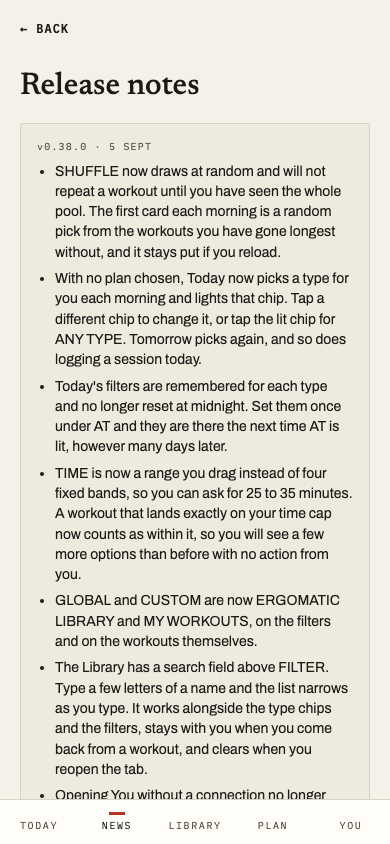
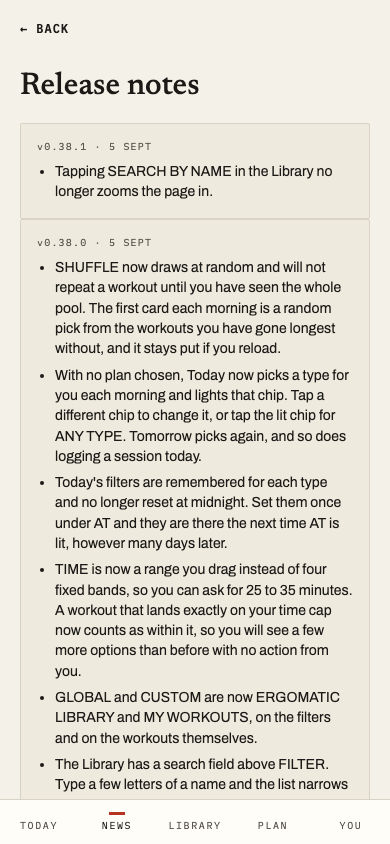
v0.38.1 notes: the Library search field no longer zooms the page; releasePin + list pin bumped, releases capture refreshed (#306)
Claude-Session: https://claude.ai/code/session_013Zebvh9Rq7cXCKg9k1TN2b

Changed region(s): [[0.0923, 0.1848, 0.8923, 0.955]]

diff --git a/app/e2e/news.spec.ts b/app/e2e/news.spec.ts
@@ -184,45 +184,46 @@ test("/news/releases lists every version, newest first", async ({ page }) => {
   // deliberately fails here — that is this pin's job, and it is why the
   // title no longer names a number that goes stale every tag.
   const versions = page.locator(".news-release-version");
-  await expect(versions).toHaveCount(38);
+  await expect(versions).toHaveCount(39);
   await expect(versions.nth(0)).toContainText(NEWEST_RELEASE_VERSION);
-  await expect(versions.nth(1)).toContainText("v0.37.0");
-  await expect(versions.nth(2)).toContainText("v0.36.1");
-  await expect(versions.nth(3)).toContainText("v0.36.0");
-  await expect(versions.nth(4)).toContainText("v0.35.0");
-  await expect(versions.nth(5)).toContainText("v0.34.0");
-  await expect(versions.nth(6)).toContainText("v0.33.0");
-  await expect(versions.nth(7)).toContainText("v0.32.0");
-  await expect(versions.nth(8)).toContainText("v0.31.0");
-  await expect(versions.nth(9)).toContainText("v0.30.0");
-  await expect(versions.nth(10)).toContainText("v0.29.0");
-  await expect(versions.nth(11)).toContainText("v0.28.0");
-  await expect(versions.nth(12)).toContainText("v0.27.0");
-  await expect(versions.nth(13)).toContainText("v0.26.0");
-  await expect(versions.nth(14)).toContainText("v0.25.0");
-  await expect(versions.nth(15)).toContainText("v0.24.0");
-  await expect(versions.nth(16)).toContainText("v0.23.0");
-  await expect(versions.nth(17)).toContainText("v0.22.0");
-  await expect(versions.nth(18)).toContainText("v0.21.0");
-  await expect(versions.nth(19)).toContainText("v0.20.0");
-  await expect(versions.nth(20)).toContainText("v0.19.1");
-  await expect(versions.nth(21)).toContainText("v0.19.0");
-  await expect(versions.nth(22)).toContainText("v0.18.1");
-  await expect(versions.nth(23)).toContainText("v0.18.0");
-  await expect(versions.nth(24)).toContainText("v0.17.0");
-  await expect(versions.nth(25)).toContainText("v0.16.0");
-  await expect(versions.nth(26)).toContainText("v0.15.0");
-  await expect(versions.nth(27)).toContainText("v0.14.0");
-  await expect(versions.nth(28)).toContainText("v0.13.0");
-  await expect(versions.nth(29)).toContainText("v0.12.0");
-  await expect(versions.nth(30)).toContainText("v0.11.0");
-  await expect(versions.nth(31)).toContainText("v0.10.0");
-  await expect(versions.nth(32)).toContainText("v0.9.0");
-  await expect(versions.nth(33)).toContainText("v0.8.0");
-  await expect(versions.nth(34)).toContainText("v0.7.0");
-  await expect(versions.nth(35)).toContainText("v0.5.1");
-  await expect(versions.nth(36)).toContainText("v0.5.0");
-  await expect(versions.nth(37)).toContainText("v0.4.0");
+  await expect(versions.nth(1)).toContainText("v0.38.0");
+  await expect(versions.nth(2)).toContainText("v0.37.0");
+  await expect(versions.nth(3)).toContainText("v0.36.1");
+  await expect(versions.nth(4)).toContainText("v0.36.0");
+  await expect(versions.nth(5)).toContainText("v0.35.0");
+  await expect(versions.nth(6)).toContainText("v0.34.0");
+  await expect(versions.nth(7)).toContainText("v0.33.0");
+  await expect(versions.nth(8)).toContainText("v0.32.0");
+  await expect(versions.nth(9)).toContainText("v0.31.0");
+  await expect(versions.nth(10)).toContainText("v0.30.0");
+  await expect(versions.nth(11)).toContainText("v0.29.0");
+  await expect(versions.nth(12)).toContainText("v0.28.0");
+  await expect(versions.nth(13)).toContainText("v0.27.0");
+  await expect(versions.nth(14)).toContainText("v0.26.0");
+  await expect(versions.nth(15)).toContainText("v0.25.0");
+  await expect(versions.nth(16)).toContainText("v0.24.0");
+  await expect(versions.nth(17)).toContainText("v0.23.0");
+  await expect(versions.nth(18)).toContainText("v0.22.0");
+  await expect(versions.nth(19)).toContainText("v0.21.0");
+  await expect(versions.nth(20)).toContainText("v0.20.0");
+  await expect(versions.nth(21)).toContainText("v0.19.1");
+  await expect(versions.nth(22)).toContainText("v0.19.0");
+  await expect(versions.nth(23)).toContainText("v0.18.1");
+  await expect(versions.nth(24)).toContainText("v0.18.0");
+  await expect(versions.nth(25)).toContainText("v0.17.0");
+  await expect(versions.nth(26)).toContainText("v0.16.0");
+  await expect(versions.nth(27)).toContainText("v0.15.0");
+  await expect(versions.nth(28)).toContainText("v0.14.0");
+  await expect(versions.nth(29)).toContainText("v0.13.0");
+  await expect(versions.nth(30)).toContainText("v0.12.0");
+  await expect(versions.nth(31)).toContainText("v0.11.0");
+  await expect(versions.nth(32)).toContainText("v0.10.0");
+  await expect(versions.nth(33)).toContainText("v0.9.0");
+  await expect(versions.nth(34)).toContainText("v0.8.0");
+  await expect(versions.nth(35)).toContainText("v0.7.0");
+  await expect(versions.nth(36)).toContainText("v0.5.1");
+  await expect(versions.nth(37)).toContainText("v0.5.0");
+  await expect(versions.nth(38)).toContainText("v0.4.0");
 });
 
 test("item 1 / round 4: opening an article from a scrolled News feed lands the reader at the top of its OWN scroller, and ← BACK now restores News's own scroll position (CL item: News scroll memory)", async ({

diff --git a/app/src/news/content/releaseNotes.ts b/app/src/news/content/releaseNotes.ts
@@ -5,6 +5,18 @@ import type { ReleaseNote } from "./types";
 // would notice, and internal-only releases are skipped.
 export const RELEASE_NOTES: ReleaseNote[] = [
   {
+    // v0.38.1: git log v0.38.0..main --oneline at f927ef4d — two merges,
+    // both accounted (RF15, no `--merges`; main is squash-merged):
+    //   #304 the Library search field no longer zooms the page — the item.
+    //   #305 GET /api/today removed; no client ever called it, so no build
+    //     can notice: no item. This notes/capture PR adds no behavior.
+    version: "v0.38.1",
+    date: "2026-09-05",
+    items: [
+      "Tapping SEARCH BY NAME in the Library no longer zooms the page in.",
+    ],
+  },
+  {
     // v0.38.0: git log v0.37.0..main --oneline at e1337844 — six merges,
     // every one accounted (RF15, no `--merges`; main is squash-merged):
     //   #296 freestyle type chips on Today — the chip row item 2 lights.

diff --git a/app/e2e/releasePin.ts b/app/e2e/releasePin.ts
@@ -16,4 +16,4 @@
  *  claims.
  *
  *  Bump alongside each release-notes PR. */
-export const NEWEST_RELEASE_VERSION = "v0.38.0";
+export const NEWEST_RELEASE_VERSION = "v0.38.1";
